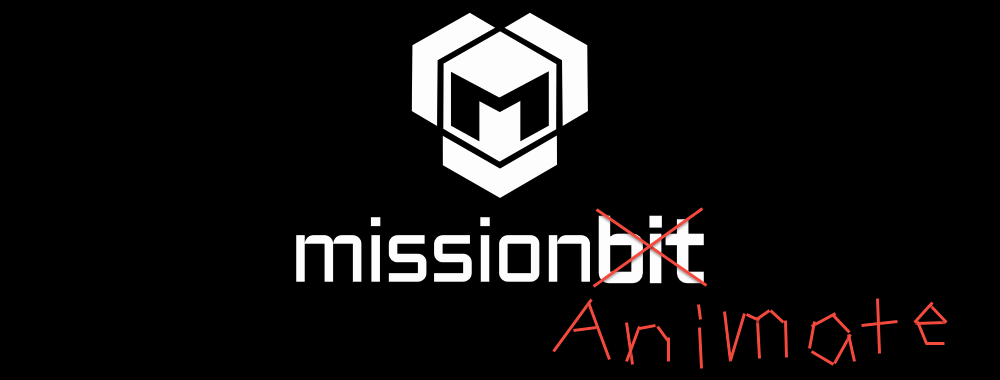
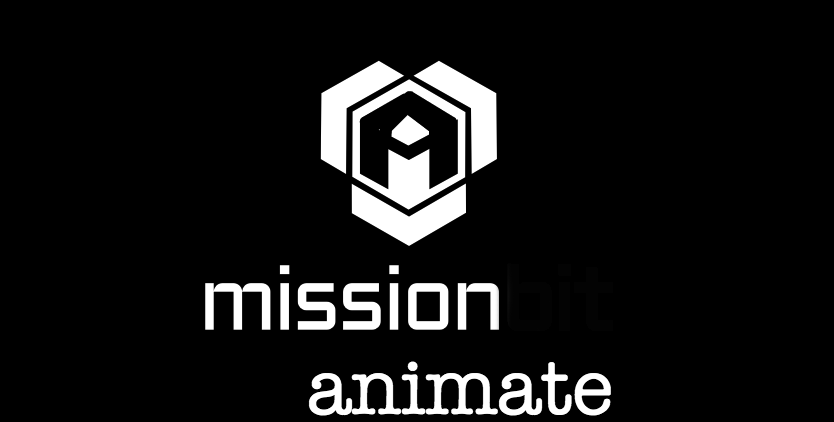
Alot of stuff
Changelog update
more stuff in help
changed cover photo

Changed region(s): [[0.2182, 0.0289, 0.9664, 0.9842]]

diff --git a/help.html b/help.html
@@ -30,7 +30,7 @@
             <li class="dropdown fancy cur active">
               <a href="other.html" class="dropdown-toggle fancy cur" data-toggle="dropdown">Other<b class="caret"></b></a>
               <ul class="dropdown-menu">
-                <li><a href="help.html" class="active">Help</a></li>
+                <li><a href="help.html">Help</a></li>
                 <li><a href="changes.html">Changelog</a></li>
                 <li><a href="about.html">About</a></li>
               </ul></li>
@@ -40,13 +40,13 @@
       </div>
     </div>
     <h1 class="cen cur see">Help</h1>
-    <div class="cen large see">
+    <div class="cen med see">
       <p>- Open your old image with the Open button!</p>
       <p><img src="open.png"></p>
       <p>- Save Your masterpiece with the Save Button!</p>
       <p><img src="sav.png"></p>
       <p>Ready to share the world? Press this Download Button!</p>
-      <p class="med">Now comes with a preview!</p>
+      <p class="small">Now comes with a preview!</p>
       <p><img src="dw.png"></p>
       <p>- The pencil button lets you draw freely</p>
       <p><img src="pencil.png"></p>
@@ -56,15 +56,15 @@
       <p><img src="psize.png"></p>
       <p>- The square button allows you to choose your color.</p>
       <p><img src="color.png"></p>
-      <p>- Clicking the counter-clockwise arrow button undos your last change.</p>
+      <p>- Clicking the counter-clockwise arrow button undos your last change (shortcut: ctrl-z / cmd-z)</p>
       <p><img src="undo.png"></p>
-      <p>- Clicking the clockwise arrow button redos your undo.</p>
+      <p>- Clicking the clockwise arrow button redos your undo (shortcut: ctrl-shift-z / cmd-shift-z)</p>
       <p><img src="redo.png"></p>
       <p>- The Add Frame button lets you add a frame.</p>
       <p><img src="aframe.png"></p>
       <p>- Move between frames with the left and right arrows! (Shortcut: left/right arrow key)</p>
       <p><img src="mframe.png"></p>
-      <p>- Wanna get rid of everything? use the Trash button!</p>
+      <p>- Wanna get rid of the current frame? use the Trash button!</p>
       <p><img src="del.png"></p>
     </div>
     <!-- http://jquery.com/ -->

diff --git a/changes.html b/changes.html
@@ -31,7 +31,7 @@
               <a href="other.html" class="dropdown-toggle fancy cur" data-toggle="dropdown">Other<b class="caret"></b></a>
               <ul class="dropdown-menu">
                 <li><a href="help.html">Help</a></li>
-                <li><a href="changes.html" class="active">Changelog</a></li>
+                <li><a href="changes.html">Changelog</a></li>
                 <li><a href="about.html">About</a></li>
               </ul></li>
             <li><a href="showcase.html" class="fancy cur">Showcase</a></li>
@@ -41,6 +41,13 @@
     </div>
     <div class="see">
       <h1 class="cen xxlarge cur">Changelog</h1>
+        <p class="large">Added (12/12/13)</p>
+        <ul>
+          <li>Changed cover photo.</li>
+          <li>Changed Showcase page</li>
+          <li>Changed positioning of some buttons</li>
+          <li>Added shortcut info into help section</li>
+        </ul>
         <p class="large">Added (12/10/13)</p>
         <ul>
           <li>Added Showcase page</li>

diff --git a/index.html b/index.html
@@ -45,7 +45,7 @@
     <div class="cen intro">
       <p><img src="missionanimate1.png"></p>
       <p class="xlarge cur">THIS WORKS BEST WITH GOOGLE CHROME</p>
-      <p>Our mission is to create a browser animation application that will appeal to all who enters our domain.</p>
+      <p>Our mission is to create a browser animation application that will appeal to all who enters our domain... and we completed it.</p>
       <p><a href="showcase.html" class="link">Here</a> is a fine example of what this app can do so far...</p>
       <a href="edit.html" class="btn btn-primary btn-lg cur" role="button" onclick="warning()">Click here to get started!</a>
     </div>

diff --git a/showcase.html b/showcase.html
@@ -41,13 +41,8 @@
     </div>
     <div class="cen">
       <div class="cur see xxlarge">Showcase</div>
-        <p class="cur see xlarge">1st Place</p>
         <p><img src="anime.gif"></p>
-        <p class="cur see large">2nd Place</p>
-        <p><img src="apple.gif"></p>
-        <p class="cur see large">3rd place</p>
-        <p><img src="halfmask.gif"></p>
-        <p class="cur see med">Honorable Mentions</p>
+        <p><img src="halfmask.gif">  <img src="apple.gif"></p>
         <p><img src="flash.gif">  <img src="awsnap.gif">  </p>
         <p><img src="bottle.gif">  <img src="drawhere.gif"></p>
     </div>

diff --git a/edit.html b/edit.html
@@ -86,7 +86,7 @@
         Frame [<span data-bind="text: frames.frameNum">n</span>/<span data-bind="text: frames.frameCount">n</span>]
       </div>
       <div class="cen cur large">
-        <p>Need help? Go to <a href="help.html" class="link">this page!</a></p>
+        <p class="see">Need help? Go to <a href="help.html" class="link">this page!</a></p>
         <a href="about.html" class="btn btn-primary btn-lg" role="button" class="cur">Found an error? Email us!</a>
       </div>
     </div>

diff --git a/about.html b/about.html
@@ -32,7 +32,7 @@
               <ul class="dropdown-menu">
                 <li><a href="help.html">Help</a></li>
                 <li><a href="changes.html">Changelog</a></li>
-                <li><a href="about.html" class="active">About</a></li>
+                <li><a href="about.html">About</a></li>
               </ul></li>
             <li><a href="showcase.html" class="fancy cur">Showcase</a></li>
           </ul>

diff --git a/css/main.css b/css/main.css
@@ -88,6 +88,9 @@ body {
 .med {
 	font-size: 24px
 }
+.small {
+	font-size: 18px
+}
 .see {
 	color: white
 }
